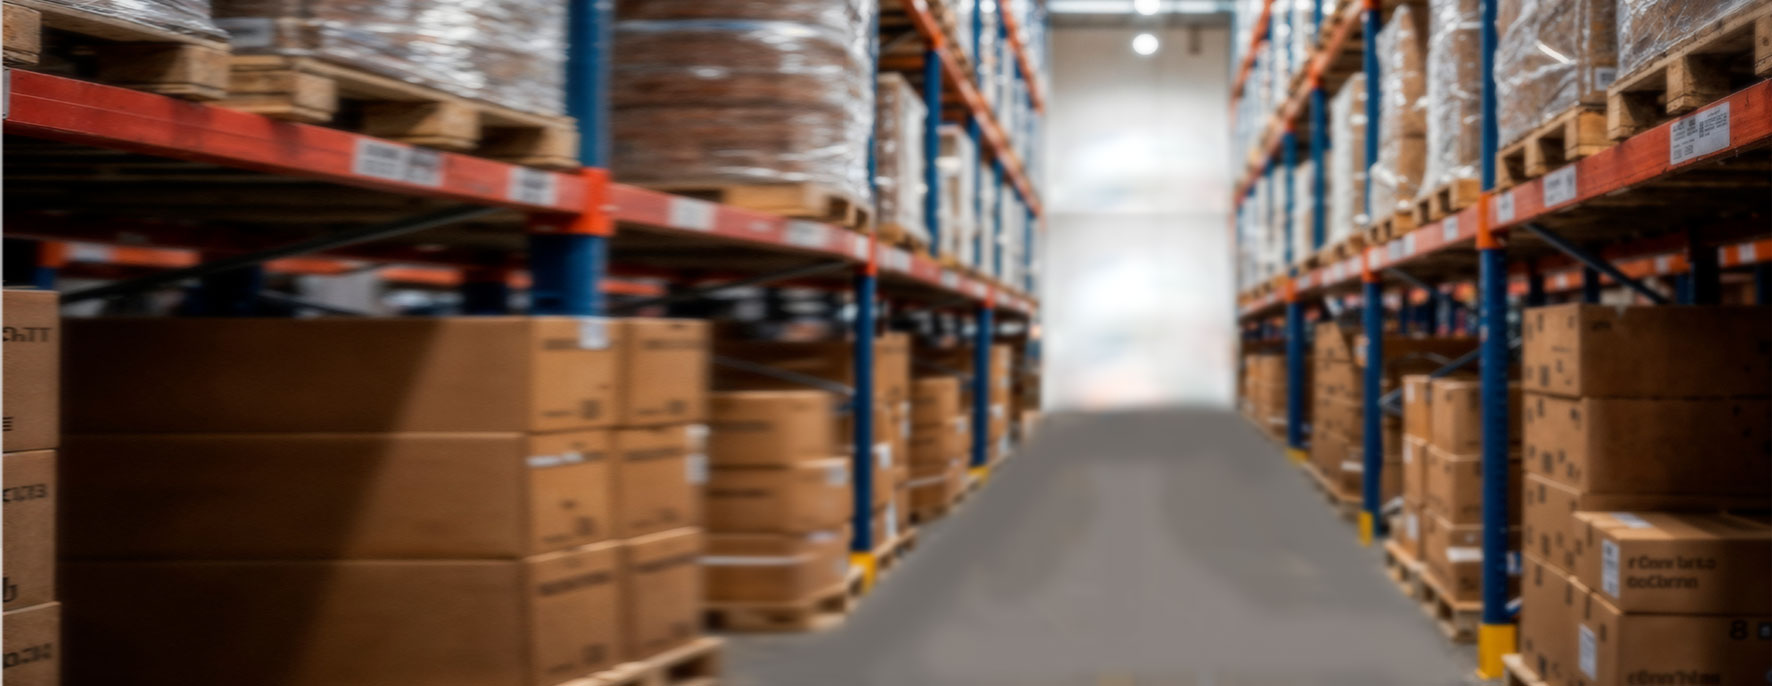
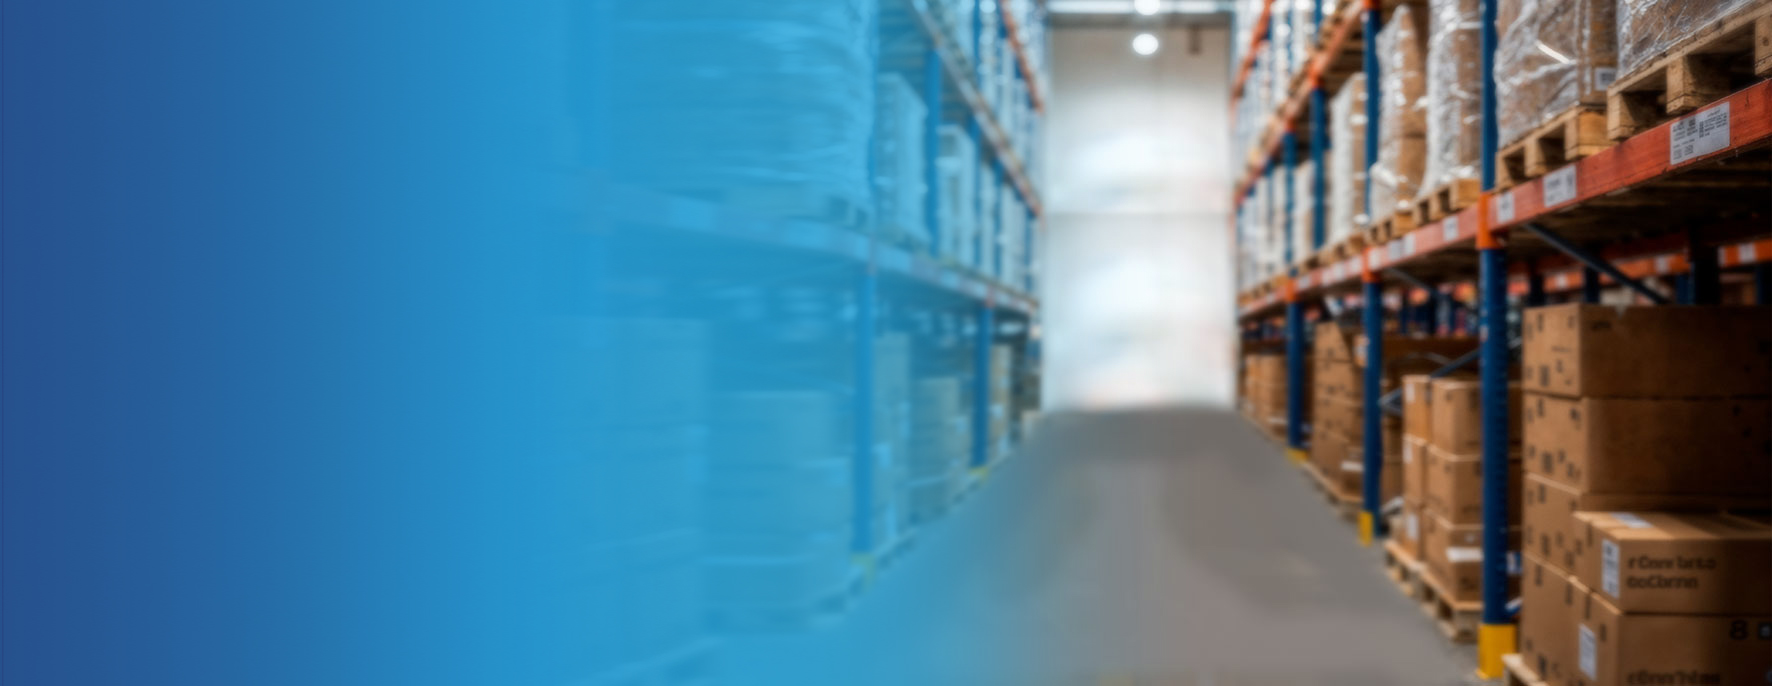
se ajusta ccarrusel

diff --git a/src/app/components/carrusel/carrusel.component.css b/src/app/components/carrusel/carrusel.component.css
@@ -1,79 +1,129 @@
-/*Carrusel*/
+/* Carrusel */
 .carrusel {
-    /*min-height: 450px;*/
-    background-image: url("/assets/img/carrusel/crecer.jpg");
+    /*min-height: 450px;
+    background-image: url("/assets/img/carrusel/crecer.jpg");*/
     background-size: cover;
     transition: background-image 0.4s ease-in-out; 
+    height: 500px;
 }
+
 .carruselInt{
-   
-    background-image: url("/assets/img/carrusel/azul.png");
+    /*background-image: url("/assets/img/carrusel/azul.png");*/
     background-size: cover;
 }
+
 .carruselIzq {
     display: flex;
     flex-direction: column;
     justify-content: center;
     padding-left: 20px;
 }
+
 .carruselIzq img {
     width: 350px;
     margin-bottom: 30px;
 }
-.carruselText{ text-align: right; font-weight: bolder; font-style: italic; font-size: 2.2em; color: rgb(220, 255, 255);text-shadow: 2px 2px 5px #151400;
+
+.carruselDer {
+    background-size: 400px;
+    background-position: right bottom;
+    transition: background-image 0.5s ease-in-out;
+    background-repeat: no-repeat;
 }
+
+.carruselText{ 
+    text-align: center;
+    font-weight: bolder; 
+    font-style: italic; 
+    font-size: 2.2em; 
+    color: rgb(220, 255, 255);
+    text-shadow: 2px 2px 5px #151400;
+}
+
 .carruselDer h2 {
-    z-index: 2;
-    position: absolute;
-    top: 45%;
     background-color: #0000006e;
     padding: 3px 25px;
     border-radius: 5px;
+    margin: 0;
+    font-size: 1.7em;
 }
-.carruselDer img {
-    width: 80%; 
-    transition: 0.3s ease-in-out;
-}
-@media (max-width: 1391px) {
-        .carruselDer h2 { top: 35%;}
-    .carruselText { font-size: 1.2em;}
-}
-@media (max-width: 821px) {
 
+.contInfoDer {
+  height: 100%;
+  display: flex;
+  flex-direction: column;
+}
+
+.contInfoDer .row {
+  flex: 1;
+  min-height: 0;
+}
+
+@media (max-width: 1391px) {
+    .carruselText { 
+        font-size: 1.8em;
+    }
+    /*.carrusel {height: 39vh;}*/
+}
+
+@media (max-width: 821px) {
     .carrusel {
         min-height: 240px;
-        background-image: url("/assets/img/carrusel/crecer.jpg");
-        background-size: cover;
+       /* background-image: url("/assets/img/carrusel/crecer.jpg");
+        background-size: cover;*/
         transition: background-image 0.4s ease-in-out; 
     }
+    
     .carruselIzq img {
         width: 220px;
         margin-bottom: 10px;
         margin-top: 20px;
     }
-    .carruselText {font-size: 1.2em;}
-    .carruselDer h2 { top: 20%;}
-} 
-@media (max-width: 767px) {
-        .carruselDer h2 { top: 35%;}
-}   
-@media (max-width: 768px) {
-    .carruselDer {
-        display: flex;
-        justify-content: center;
-    }
-    .carruselIzq img {
-        width: 250px;
-        margin-bottom: 20px;
-        margin-top: 60px;
-    }
+    
     .carruselText {
-        text-align:center;
-        font-size: 1.2em;
+        font-size: 1.5em;
     }
-    .carruselDer img {width: 50%;}
-    .carrusel { min-height: 400px;}
+    .carruselDer {
+    background-size: 300px;
+    background-position: bottom;}
     .carruselDer h2 {
-            top: 45%;
+        padding: 3px 5px;
+        font-size: 1.1em;
+    }
+} 
+
+@media (max-width: 768px) {
+
+    
+    .carruselDer {
+        min-height: 300px;
+        display: flex;
+        justify-content: center;background-size: 42%;
+    }
+    
+    .carruselIzq img {
+        /*width: 250px;*/
+        margin-bottom: 10px;
+        margin-top: 20px;
+    }
+    
+    .carruselText {
+        text-align: center;
+        font-size: 1.5em;
+    }
+    
+    .carrusel { 
+        min-height: 400px;
+    }
+}
+
+@media (max-width: 576px) {
+    .carruselText {
+        font-size: 1.2em;
+        padding: 0px;
+    }
+    
+    .carruselDer {
+        min-height: 250px;background-size: 48%;
     }
 }

diff --git a/src/app/components/carrusel/carrusel.component.html b/src/app/components/carrusel/carrusel.component.html
@@ -16,19 +16,23 @@
 <!-- carrusel.component.html -->
 <!-- carrusel.component.html -->
 <div class="container-fluid carruselCont">
-  <div class="carrusel" [style.background-image]="'url(' + currentItem.background + ')'">
-    <div class="row carruselInt" [@slideAnimation]="currentIndex">
-      <div class="col-md-6 carruselIzq">
+  <div class="row carrusel" [style.background-image]="'url(' + currentItem.background + ')'">
+
+      <div class="col-md-6 carruselIzq" >
         <div class="contImg"><img class="mx-auto d-block" src="/assets/img/logoWhite.svg" alt=""></div>
         <h2 class="carruselText">¡Tenemos la solución que necesitas!</h2>
         <h2 class="carruselText">Sin importar si:</h2>
       </div>
-      <div class="col-md-4 carruselDer">
-        <h2 class="carruselText">{{ currentItem.texto }}</h2>
-        <img [src]="currentItem.imagen" alt="">
-      </div>        
-    </div>
+      <div class="col-md-5 carruselDer" [style.background-image]="'url(' + currentItem.imagen + ')'">
+        <div class="container contInfoDer h-100 d-flex flex-column">
+          <div class="row flex-fill"></div>
+          <div class="row flex-fill d-flex flex-column justify-content-end">
+            <div class="col-12">
+              <h2 class="carruselText">{{ currentItem.texto }}</h2>
+            </div>
+          </div>
+          <div class="row flex-fill"></div>
+        </div>    
+      </div>
   </div>
-  
-
 </div>
